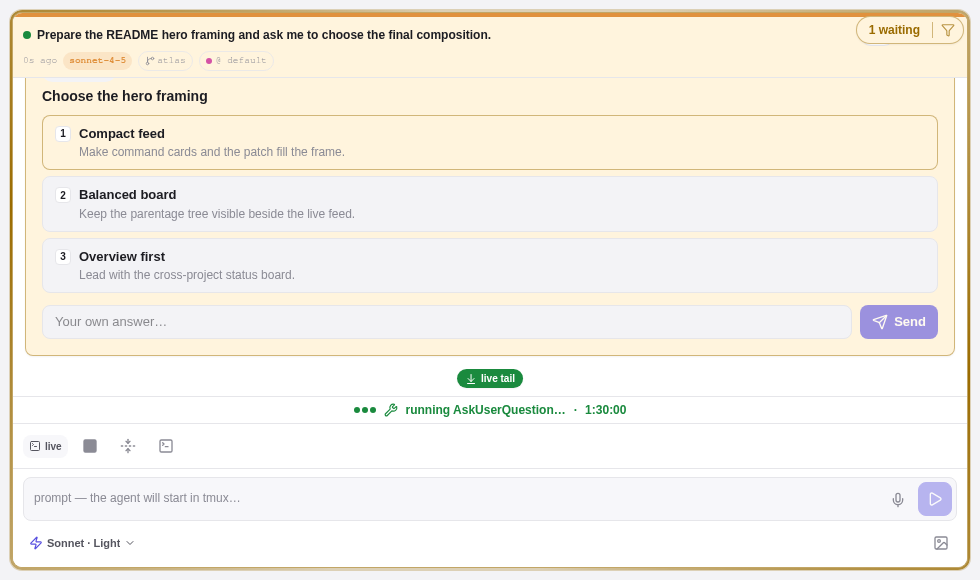
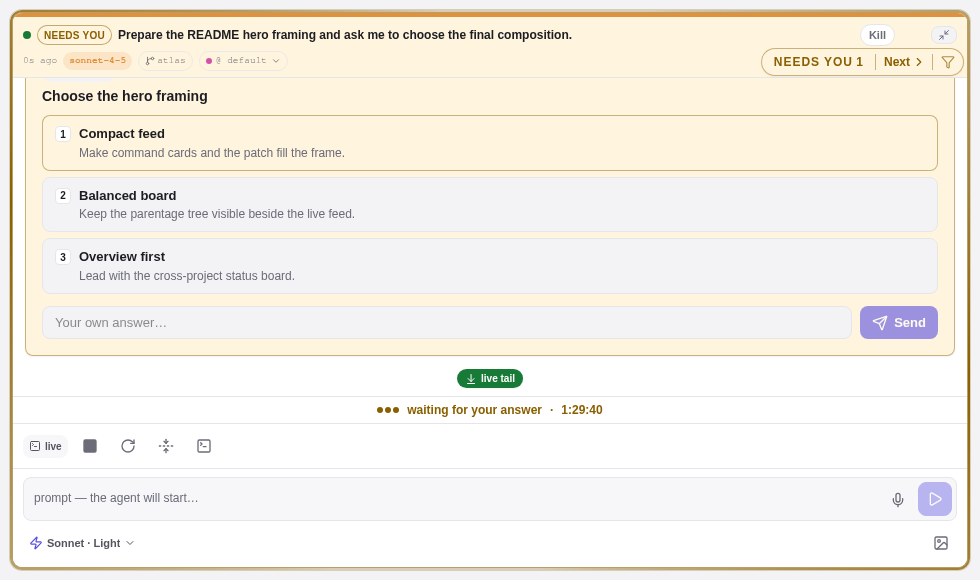
fix(ui): close blocked status review findings
Regenerate the pending-question capture and pin the waitingInput elapsed warning state.

diff --git a/src/components/TurnStatusBar.dom.test.tsx b/src/components/TurnStatusBar.dom.test.tsx
@@ -179,7 +179,10 @@ test("terminal waits take precedence over a finished turn", () => {
     waitingInput: { since: t0 / 1000, screenTail: "Continue?", target: "%1", menu: null },
   }), container);
 
-  expect(container.querySelector('[data-turn-status="waiting"]')?.textContent).toContain("waiting for your answer");
+  const waiting = container.querySelector('[data-turn-status="waiting"]');
+  expect(waiting?.textContent).toContain("waiting for your answer");
+  expect(waiting?.textContent).toContain("1:05");
+  expect(waiting?.className).toContain("text-warning");
   expect(container.querySelector('[data-turn-status="finished"]')).toBeNull();
 });
 
